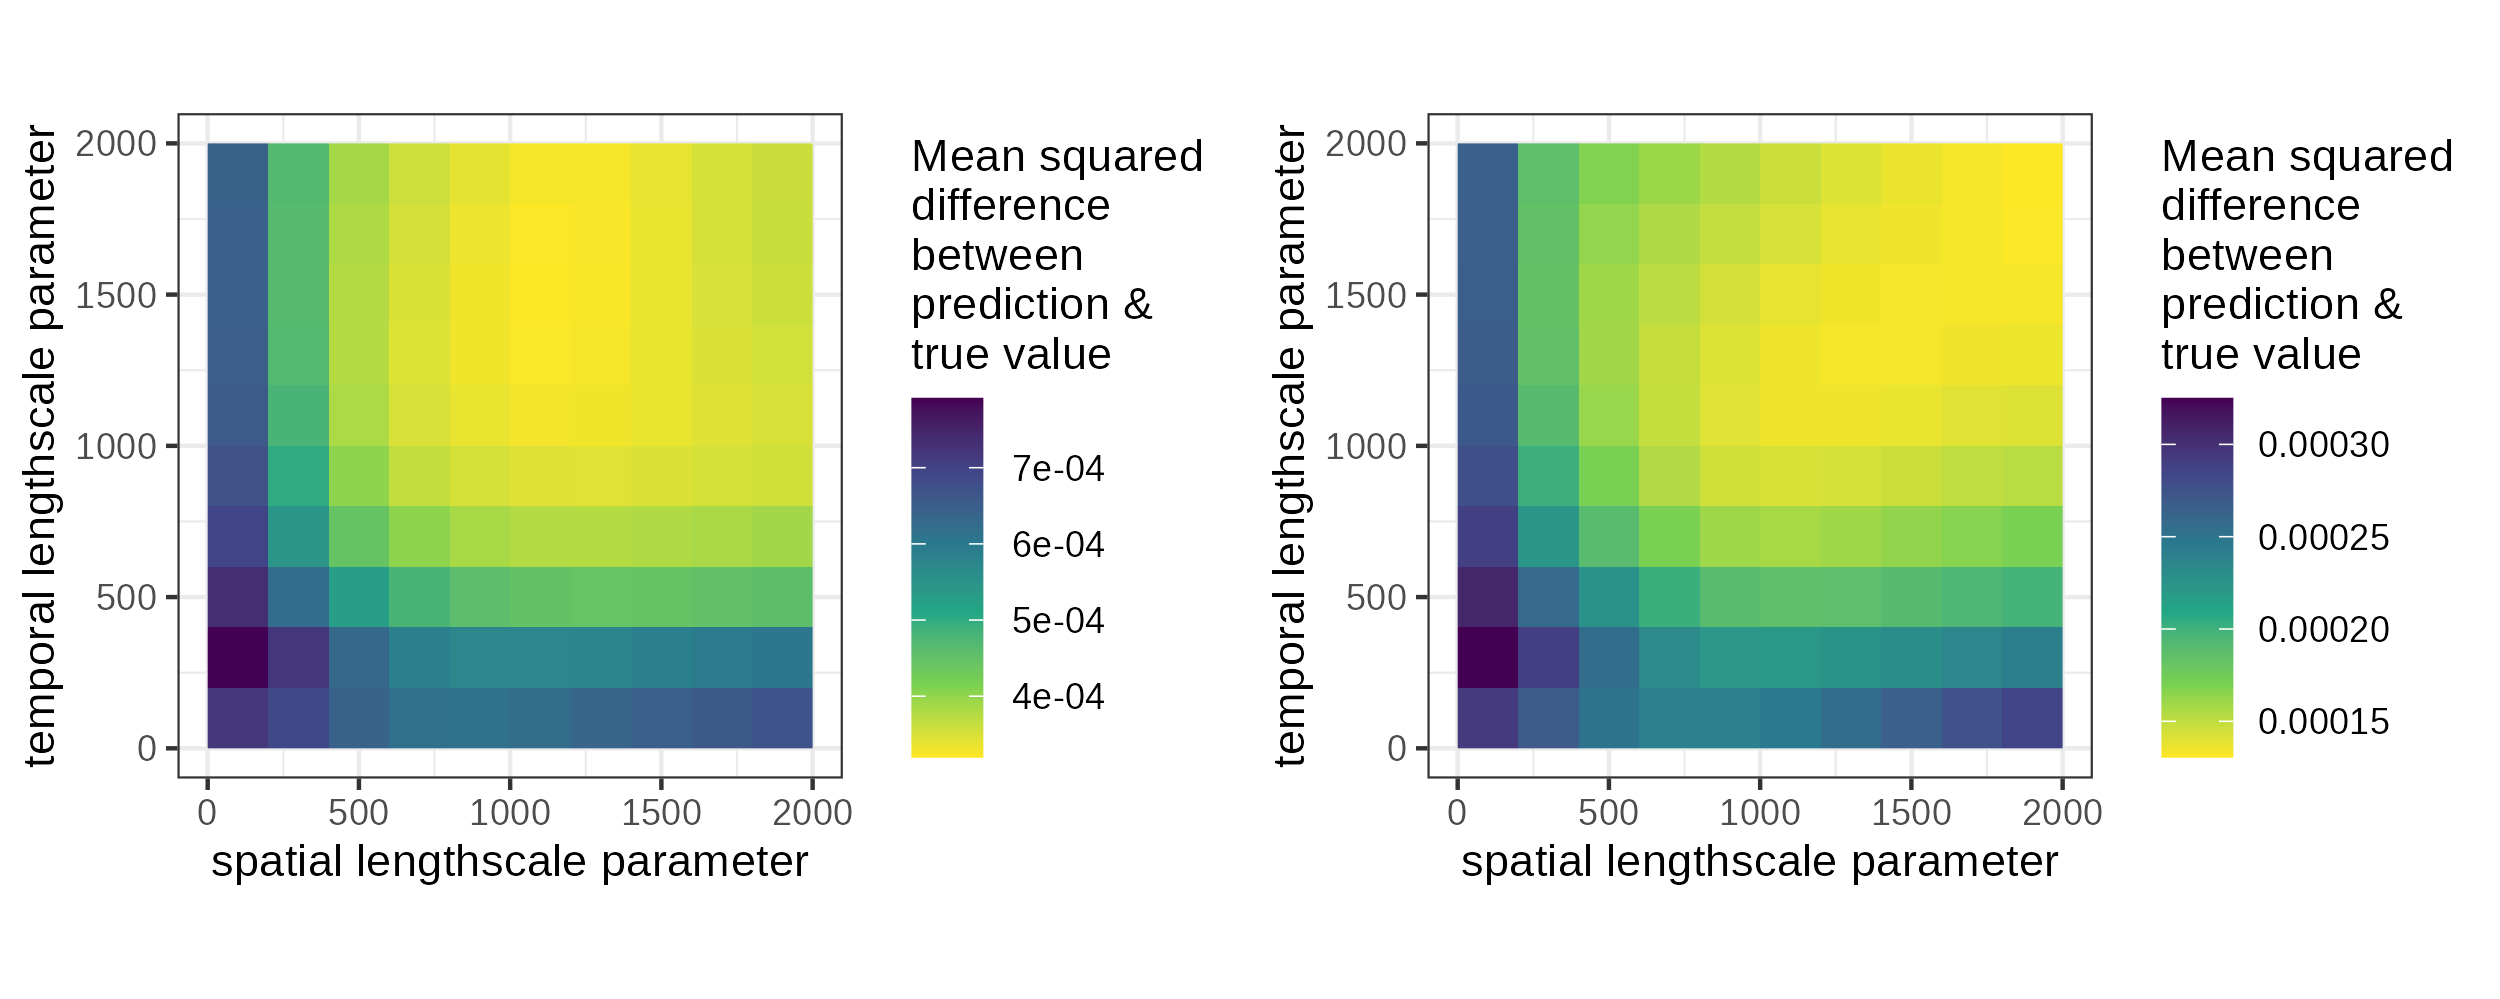
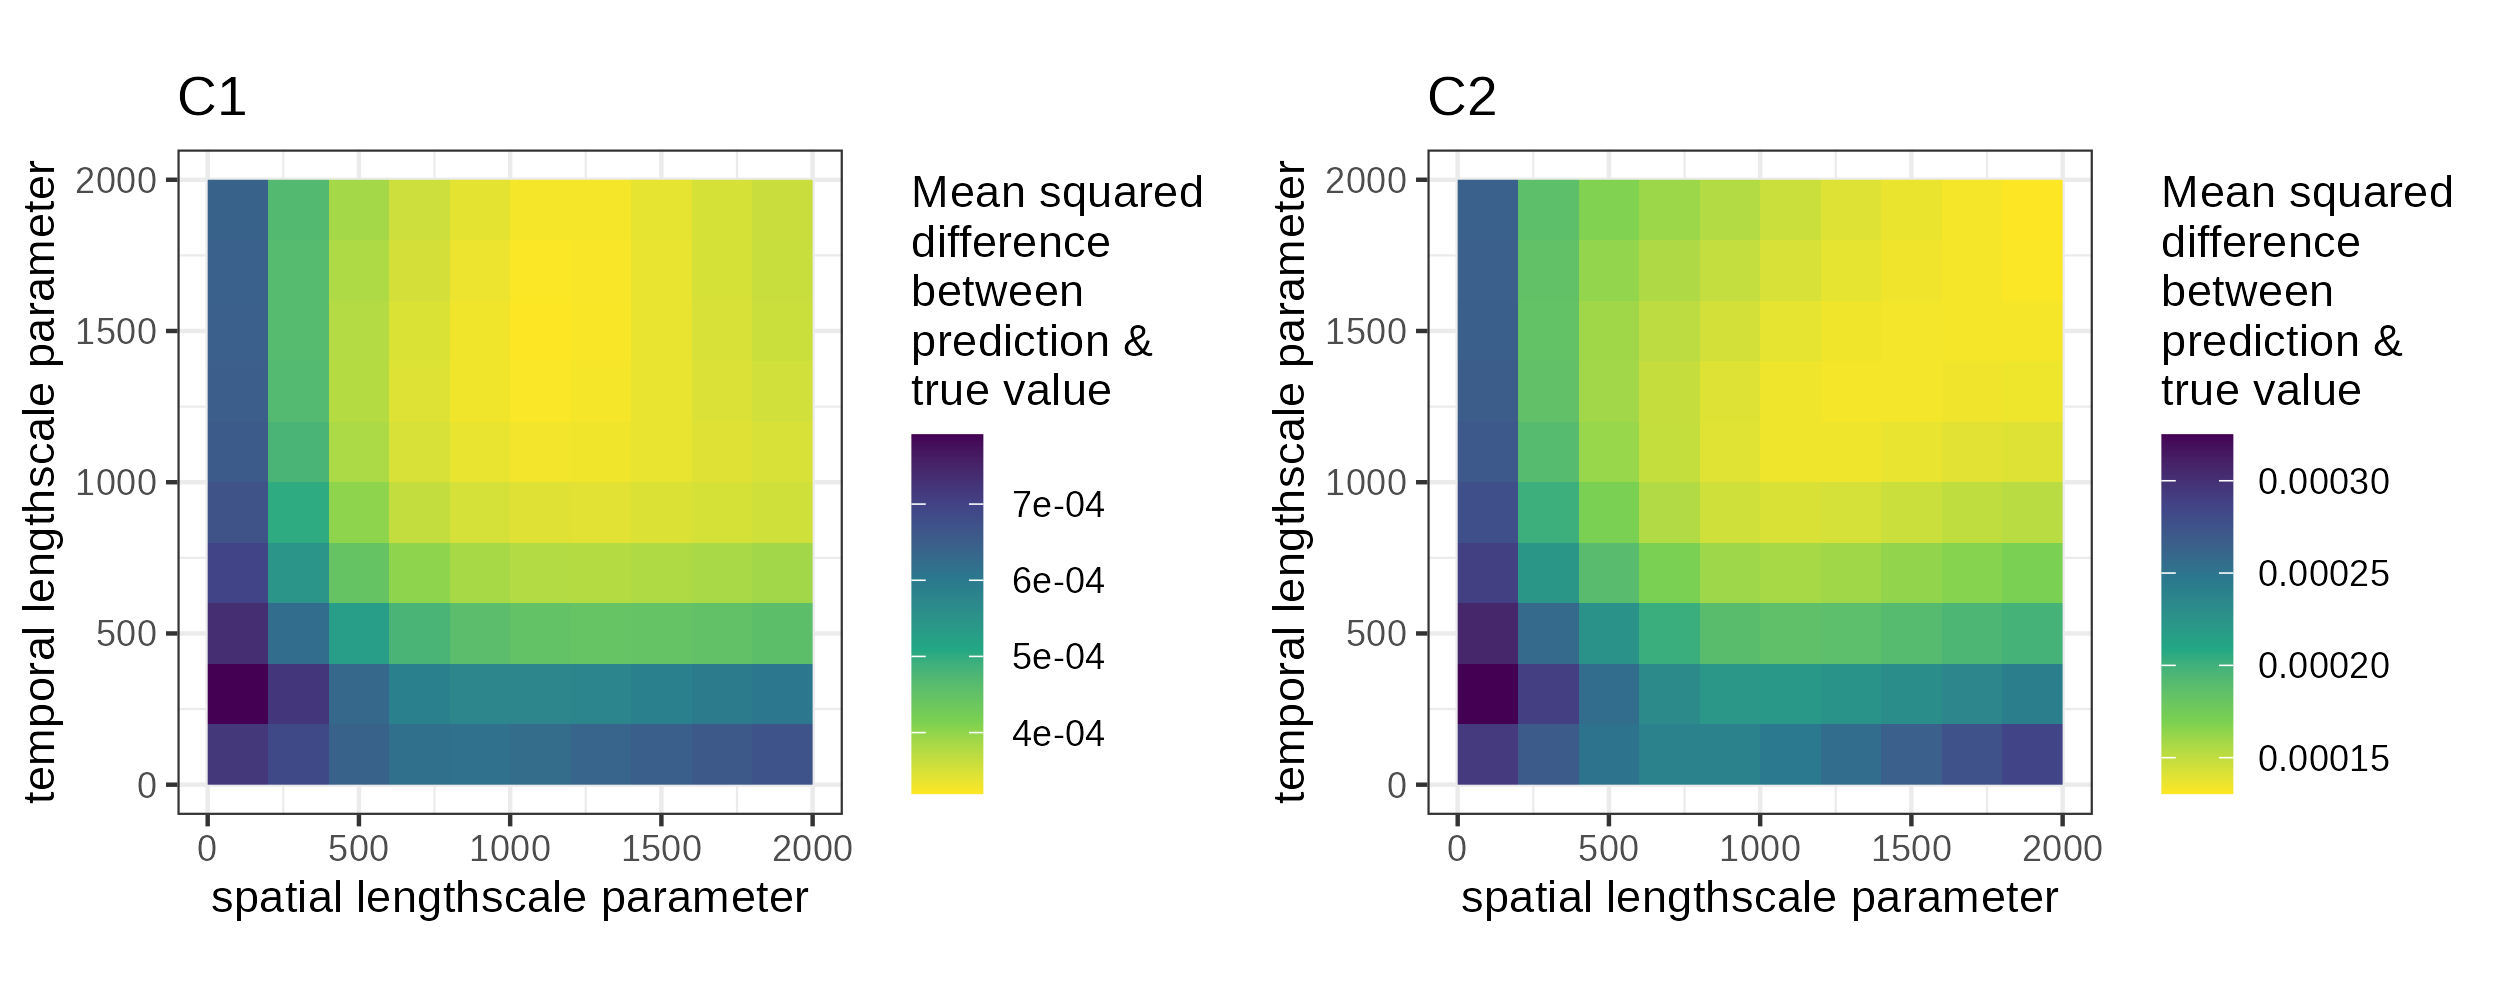
completed table and figure

Changed region(s): [[0.0, 0.0621, 0.9984, 0.9309]]

diff --git a/docs/estimation.md b/docs/estimation.md
@@ -301,24 +301,24 @@ That means each row in `interpol_comparison` features the result for one test sa
 
 |Column         |Description |
 |:--------------|:-----------|
-|independent_table_id| |
-|dependent_setting_id| |
-|dependent_var_id| |
-|kernel_setting_id| |
-|pred_grid_id| |
-|mixing_iteration| |
-|dsx| |
-|dsy| |
-|dt| |
-|g| |
-|id| |
-|x| |
-|y| |
-|z| |
-|mean| |
-|sd| |
-|measured| |
-|difference| |
+|independent_table_id |Identifier of the spatiotemporal position permutation|
+|dependent_setting_id |Identifier of the dependent variable space position permutation|
+|dependent_var_id     |Identifier of the dependent variable|
+|kernel_setting_id    |Identifier of the kernel setting permutation|
+|pred_grid_id         |Identifier of the spatiotemporal prediction grid|
+|mixing_iteration     |Number of iteration|
+|dsx                  |Kernel lengthscale parameter on the spatial x axis|
+|dsy                  |Kernel lengthscale parameter on the spatial y axis|
+|dt                   |Kernel lengthscale parameter on the temporal axis|
+|g                    |Kernel nugget parameter|
+|id                   |Identifier of the test sample|
+|x                    |Spatial x axis coordinate of the test sample|
+|y                    |Spatial y axis coordinate of the test sample|
+|z                    |Temporal coordinate (age) of the test sample|
+|mean                 |Mean value predicted by the GPR model for the dependent variable<br>at the location of the test sample|
+|sd                   |Uncertainty predicted by the GPR model for the dependent variable<br>at the location of the test sample|
+|measured             |Genetic coordinate of the test sample in the dependent variable space|
+|difference           |Difference between `mean` (the predicted value) and `measured`<br>(the actually observed value)|
 
 `interpol_comparison` has $2 * 100 * 100 * 2 = 40000$ rows as a result of the following permutations:
 
@@ -359,7 +359,8 @@ p1 <- ggplot() +
   ylab("temporal lengthscale parameter") +
   guides(
     fill = guide_colourbar(title = "Mean squared\ndifference\nbetween\nprediction &\ntrue value")
-  )
+  ) +
+  ggtitle("C1")
 
 p2 <- ggplot() +
   geom_raster(
@@ -373,14 +374,15 @@ p2 <- ggplot() +
   ylab("temporal lengthscale parameter") +
   guides(
     fill = guide_colourbar(title = "Mean squared\ndifference\nbetween\nprediction &\ntrue value")
-  )
+  ) +
+  ggtitle("C2")
 
 cowplot::plot_grid(p1, p2)
 ```
 </details>
 
 ```{figure} img/estimation/crossvalidation_kernel_grid.png
-...
+Crossvalidation results (mean squared differences between prediction and observation) for two dependent variables/ancestry components C1 and C2
 ```
 
 The very best parameter combination for each dependent variable be identified like this:
@@ -398,7 +400,7 @@ kernel_grid %>%
 2 C2               1900000  1900                0.000131
 ```
 
-Note that these values here are just for demonstration and a result of a crossvalidation run with a very small sample size.
+Note that these values here are just for demonstration and a result of a crossvalidation run with a very small sample size. Extremely large kernel sizes are plausible for extremely small sample density.
 
 ### HPC setup for large lengthscale parameter spaces
 

diff --git a/docs/basic.md b/docs/basic.md
@@ -447,8 +447,8 @@ Here is a list of the variables returned in `mobest_observations` for each of th
 |field_y              |Spatial y axis coordinate of the prediction point|
 |field_z              |Temporal coordinate (age) of the prediction point|
 |field_geo_id         |Identifier of the spatial prediction point|
-|field_mean           |Mean value predicted by the GPR model for the relevant dependent variable|
-|field_sd             |Uncertainty predicted by the GPR model for the relevant dependent variable|
+|field_mean           |Mean value predicted by the GPR model for the dependent variable|
+|field_sd             |Uncertainty predicted by the GPR model for the dependent variable|
 |search_id            |Identifier of the search sample|
 |search_x             |Spatial x axis coordinate of the search sample|
 |search_y             |Spatial y axis coordinate of the search sample|
